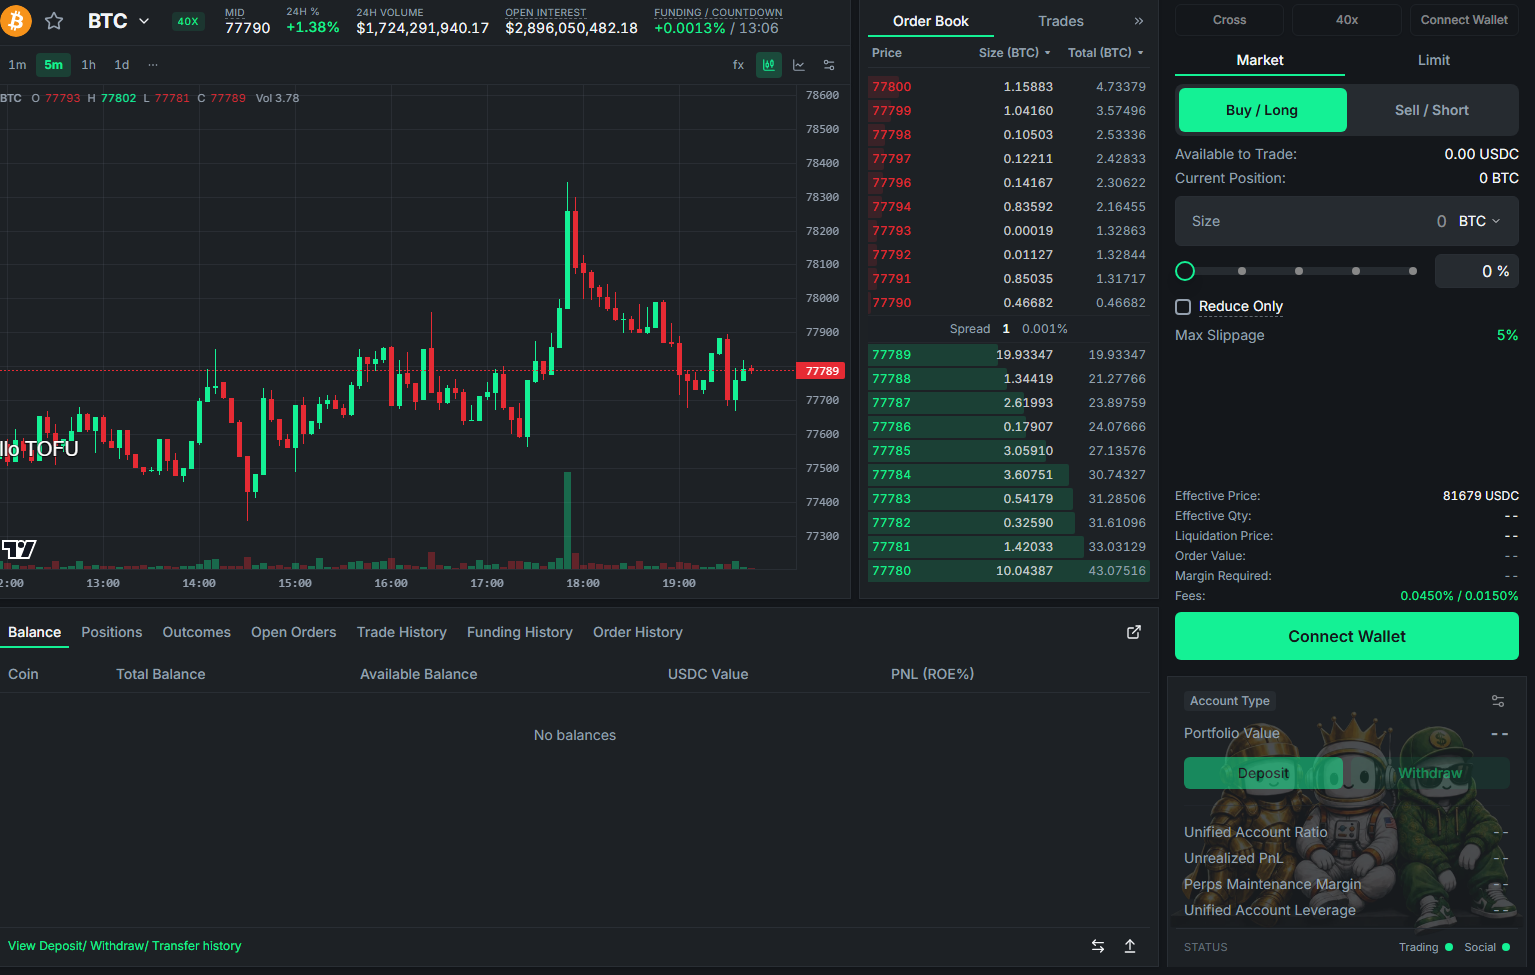
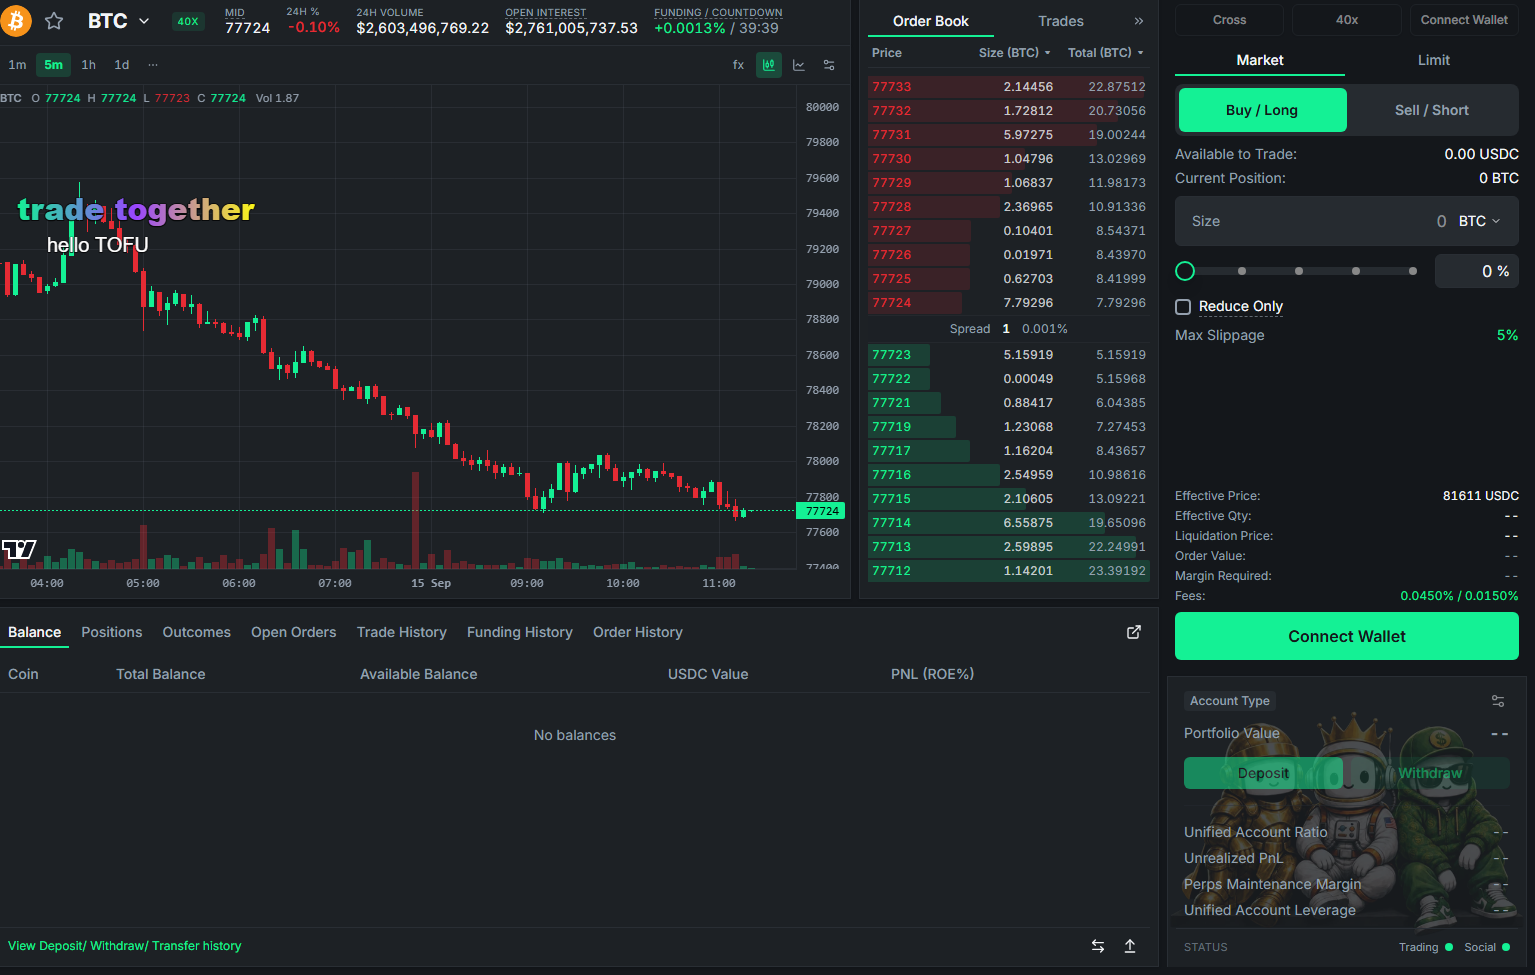
content(assets): retake production screenshots without STAGING badge, add focused crops
- trade-page-full / trade-mobile retaken on production with the STAGING badge
  hidden via injected CSS; the full shot catches live danmaku on the chart
- New crops: chart-danmaku (Danmaku page), trading-order-form, chatroom-panel,
  connect-modal (RainbowKit, EN locale, element crop), perp-market re-cut
- scripts/shoot-prod.mjs documents the repeatable screenshot flow; playwright
  added as a devDependency
- SHOT_LIST updated: all in-use shots verified STAGING-free; deposit/withdraw/
  send dialogs confirmed unreachable without a connected wallet (Ghost mode
  disables funds buttons) and moved to the user-assisted list

diff --git a/assets/SHOT_LIST.md b/assets/SHOT_LIST.md
@@ -1,55 +1,52 @@
-# GitBook 配图截图清单
+# 配图截图清单
 
-存放目录：`docs/gitbook/new/assets/`，文件名按下表（小写 kebab-case，png）。
+截图存放目录：`src/assets/screenshots/`（随 Astro 构建优化）。文件名小写 kebab-case，png。
 
 ## 通用规范
 
-- **窗口宽度 ≥ 1280px**（桌面 shell），推荐 1920×1080 视口。
-- **主题**：classic-dark。**语言**：英文。
-- 手机截图：390×844 窄视口。
-- 环境注意：本地 dev = **staging** 后端（导航栏有 STAGING 角标、测试数据）。终稿建议换生产站基址重截（流程相同），或用户确认 staging 图可用。
+- **截图基址**：生产站 https://tofu-website-trade.togetherdotfun.workers.dev/
+- **窗口宽度 ≥ 1280px**（桌面 shell），推荐 1920×1080 视口；手机截图 390×844 窄视口。
+- **主题**：dark。**语言**：英文（playwright 需设 `locale: 'en-US'`，否则 RainbowKit 等弹窗出中文）。
+- ⚠ **STAGING 徽章**：生产站 navbar 自带黄色 STAGING 角标（staging 数据面）。所有截图必须
+  先注入 CSS 隐藏再截：`span[title*="STAGING backend"] { display: none !important; }`，
+  成图人工确认无 STAGING 字样后才能入库。
 - 敏感信息：不想公开余额/PnL 就告诉 AI，入稿时打码。
 
-## A. AI 自动截 — 已完成 ✅（2026-09-14 已全部换成生产站重截，无 STAGING 角标）
+## A. 已入库 ✅（2026-09-15 全部人工复核，确认无 STAGING 角标）
 
-生产站基址：https://tofu-website-trade.togetherdotfun.workers.dev/
+| 文件名 | 用在哪页 | 状态 |
+|---|---|---|
+| trade-page-full.png | dex/introduction, dex/trading-interface | ✅ 2026-09-15 生产站重截（带真实弹幕飘过） |
+| perp-market.png | dex/markets | ✅ 2026-09-15 由新 trade-page-full 裁切（去顶栏+左聊天） |
+| trade-mobile.png | dex/trading-interface | ✅ 2026-09-15 生产站重截（390×844 @2x） |
+| chart-danmaku.png | dex/danmaku | ✅ 2026-09-15 新增：图表区裁切，含渐变/白色弹幕划过 |
+| trading-order-form.png | dex/trading-interface | ✅ 2026-09-15 新增：右侧下单表单裁切 |
+| chatroom-panel.png | dex/chat | ✅ 2026-09-15 新增：左侧聊天面板裁切（头像/等级徽章/Global 标签） |
+| connect-modal.png | dex/getting-started-connect | ✅ 2026-09-15 新增：RainbowKit 弹窗本体（英文，element crop） |
+| outcome-question.png | dex/markets | ✅ 沿用（World Cup 地球卡片裁切，无顶栏） |
+| leaderboard.png | dex/leaderboard | ✅ 沿用（Top3 领奖台，裁去顶栏） |
+| gallery-page.png | dex/cosmetics | ✅ 沿用（109 skins 网格，裁去顶栏） |
 
-| 文件名 | 状态 |
-|---|---|
-| trade-page-full.png | ✅ 生产站 /trade 整屏（图表+聊天+订单簿+下单同框，带真实聊天与弹幕）|
-| perp-market.png | ✅ 由 trade-page-full 裁切（去顶栏与左侧聊天，聚焦图表+订单簿+下单）|
-| trade-mobile.png | ✅ 生产站 390×844 |
-| outcome-question.png | ✅ World Cup 页裁切至地球卡片本体（生产站赔率仍为 "-%"，故不含右侧列表）|
-| leaderboard.png | ✅ Top3 领奖台（裁去顶栏）|
-| gallery-page.png | ✅ 109 skins 网格（裁去顶栏）|
+## B. 需钱包登录态 — 无法无钱包截取（需用户配合）
 
-## A2. AI 待截（需脚本点击/裁切，下一批）
-
-| 文件名 | 说明 |
-|---|---|
-| connect-modal.png | 需脚本点击 Connect 按钮弹出 RainbowKit |
-| trading-order-form.png | 从 trade-page-full 裁切下单表单区 |
-| chatroom-panel.png | 从 trade 页裁切聊天面板（⚠ staging 聊天室几乎没消息，建议生产站截或用户先发几条）|
-| chart-danmaku.png | 需要房间有活跃弹幕（staging 无；生产站或用户手动触发后截）|
-
-## B. 用户手动截（钱包登录态）
-
-> 日常浏览器打开本地 dev（localhost:3000）或线上站，连好钱包，Win+Shift+S 截图存本目录。
-> 用等级/装扮最全的账号。
+> 已验证：未连钱包时 Deposit/Withdraw 按钮 = 发起 connect 或置灰；
+> **Ghost 模式下资金按钮明确禁用**（前端 `lib/capability`：`case "ghost": disabled: true`），
+> 弹窗打不开。需要连好钱包的浏览器手动截（Win+Shift+S），或提供测试钱包环境给 AI 会话。
 
 | 文件名 | 截什么 |
 |---|---|
-| enable-trading-dialog.png | Enable Trading 弹窗 |
-| deposit-dialog.png | Deposit 弹窗 |
+| deposit-dialog.png | Deposit 弹窗（USDC from Arbitrum） |
 | withdraw-dialog.png | Withdraw 弹窗 |
-| portfolio-page.png | Portfolio（余额 banner + PnL 日历）|
-| profile-equipped.png | 个人主页（已装备头像框+名牌）|
+| send-dialog.png | Send（EVM transfer）弹窗 |
+| enable-trading-dialog.png | Enable Trading 弹窗 |
+| portfolio-page.png | Portfolio（余额 banner + PnL 日历） |
+| profile-equipped.png | 个人主页（已装备头像框+名牌） |
 | warehouse-grid.png | My Warehouse 收藏网格 |
 | achievement-page.png | 成就页 |
-| blind-box-page.png | 盲盒页（连钱包后才可见）|
+| blind-box-page.png | 盲盒页（未连钱包是 gate 页 "No wallet, no…"，已验证） |
 | blind-box-opening.png | 开盲盒揭晓动画瞬间 |
-| level-page.png | 等级页登录态（进度+奖励轨道）|
-| cabal-page.png | Token Cabal 页（连钱包后才可见）|
+| level-page.png | 等级页登录态（进度+奖励轨道） |
+| cabal-page.png | Token Cabal 页（连钱包后才可见） |
 | gift-dialog.png | 礼物弹窗/动画 |
 | red-envelope.png | 红包领取弹窗 |
 | danmaku-style-selector.png | 弹幕样式选择器 |
@@ -62,4 +59,6 @@ Store / Clan（含 treasury）/ Stream（含 PK）/ Rekt Graveyard。
 
 ## D. 复用现有素材（不用截）
 
-Tofu Man 系列插画、team 图片、RugPad 截图 —— 沿用现有 GitBook 上传件。
+- 装扮素材（头像/框/物品）：R2 原图 `https://tofu-assets.together.fun/skins/{avatar|avatar_frame}/<id>/assets/primary.png`
+  （头像 384×384 / 框 512×512），2026-09-15 已统一分辨率入库 `src/assets/cosmetics/`，保证点击放大尺寸一致。
+- Tofu Man 系列插画、team 图片、RugPad 截图、`banner_realtimechat.webp`（chat 页）—— 来自前端仓库 public/images。
